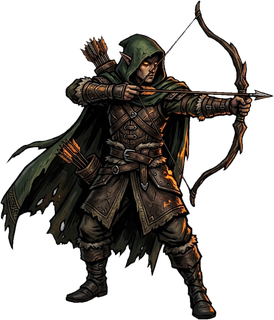
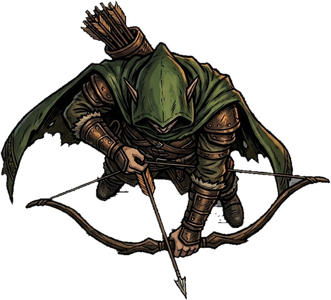
Łucznik w widoku z góry, obraca się w stronę celu
Claude-Session: https://claude.ai/code/session_01RAPEKwVxmvEePtiZ3EAmbz

diff --git a/render.js b/render.js
@@ -627,17 +627,18 @@ function spriteVariant(name, h, k, outline) {
   spriteVariants.set(key, c);
   return c;
 }
-// bohater z obrazka: odbicie w lewo/prawo, kołysanie przy chodzeniu, odrzut przy strzale
+// bohater z obrazka (widok z góry, obrazek patrzy w dół): obrót w stronę celu,
+// kołysanie przy chodzeniu, odrzut przy strzale
 function drawHeroSprite(g, name, x, y, ang, draw, t, walk, hurt) {
-  const H = 74, sp = spriteVariant(name, H, Math.min(SCALE * DPR, 3), 'rgba(255,205,140,.85)');
-  const face = Math.cos(ang) < -0.05 ? -1 : 1;
-  const bob = walk ? Math.abs(Math.sin(walk * 12)) * 3 : Math.sin(t * 2.5) * 0.8;
-  const tilt = walk ? Math.sin(walk * 12) * 0.05 : 0;
+  const H = 74, sp = spriteVariant(name, H, Math.min(SCALE * DPR, 3), 'rgba(255,205,140,.8)');
+  const sway = walk ? Math.sin(walk * 12) * 0.07 : Math.sin(t * 2) * 0.02;
+  const pulse = walk ? 1 + Math.abs(Math.sin(walk * 12)) * 0.04 : 1 + Math.sin(t * 2.5) * 0.012;
   g.save();
-  g.fillStyle = 'rgba(0,0,0,.45)'; g.beginPath(); g.ellipse(x, y + 14, 17, 6, 0, 0, TAU); g.fill();
-  g.translate(x - face * draw * 2.5, y + 16 - bob);
-  g.rotate(tilt); g.scale(face * (1 + draw * 0.03), 1 - draw * 0.03);
+  g.fillStyle = 'rgba(0,0,0,.4)'; g.beginPath(); g.ellipse(x + 3, y + 6, 26, 20, 0, 0, TAU); g.fill();
+  g.translate(x - Math.cos(ang) * draw * 3, y - Math.sin(ang) * draw * 3);
+  g.rotate(ang - Math.PI / 2 + sway);
+  g.scale(pulse, pulse);
   if (hurt > 0) g.globalAlpha = 0.55 + Math.sin(t * 60) * 0.35;
-  g.drawImage(sp, -sp.w / 2, -sp.h + 4, sp.w, sp.h);
+  g.drawImage(sp, -sp.w / 2, -sp.h * 0.42, sp.w, sp.h);
   g.restore();
 }

diff --git a/game.js b/game.js
@@ -1189,7 +1189,7 @@ function render() {
     drawGround(ctx, cam.x, cam.y, W, H);
     ctx.save(); ctx.translate(-cam.x, -cam.y);
     const mspr = 'hero_' + classDef(SAVE.lastClass).id;
-    if (IMG[mspr]) drawHeroSprite(ctx, mspr, 0, 0, Math.sin(t * 0.5) > 0 ? 0 : Math.PI, 0, t, 0, 0);
+    if (IMG[mspr]) drawHeroSprite(ctx, mspr, 0, 0, -Math.PI / 2 + Math.sin(t * 0.7) * 0.6, 0, t, 0, 0);
     else drawHero(ctx, 0, 0, -Math.PI / 2 + Math.sin(t) * 0.5, 0, t, 0, 0, classDef(SAVE.lastClass).look);
     ctx.globalCompositeOperation = 'lighter';
     const f = 0.8 + Math.sin(t * 9) * 0.1;

diff --git a/sw.js b/sw.js
@@ -1,6 +1,6 @@
 // Service worker: gra działa offline po pierwszym uruchomieniu.
 // Przy każdej aktualizacji gry zwiększ numer wersji, żeby telefon pobrał nowe pliki.
-const VERSION = 'hd-v4';
+const VERSION = 'hd-v5';
 const FILES = [
   './', 'index.html', 'style.css', 'data.js', 'meta.js', 'audio.js', 'render.js', 'game.js', 'manifest.json',
   'icons/icon-192.png', 'icons/icon-512.png', 'assets/hero_archer.png',

diff --git a/src_art/cutout.py b/src_art/cutout.py
@@ -1,0 +1,66 @@
+"""Wycina tło (szachownicę lub jednolity kolor) z grafiki AI. Użycie: cutout.py wejście wyjście"""
+import sys
+from PIL import Image, ImageFilter
+import numpy as np
+from collections import deque, Counter
+from scipy import ndimage
+src, dst = sys.argv[1], sys.argv[2]
+im = Image.open(src).convert('RGB'); a = np.asarray(im).astype(int)
+H, W, _ = a.shape
+# odcienie tła z rogów
+corners = np.concatenate([a[:80, :80].reshape(-1, 3), a[:80, -80:].reshape(-1, 3), a[-80:, :80].reshape(-1, 3), a[-80:, -80:].reshape(-1, 3)])
+cnt = Counter(tuple(c // 6 * 6 + 3) for c in corners)
+tones = []
+for c, n in cnt.most_common(8):
+    if n < len(corners) * 0.06: break
+    if all(np.abs(np.array(c) - np.array(t)).max() > 18 for t in tones): tones.append(c)
+tones = [np.array(t) for t in tones[:3]]
+print('tones', [t.tolist() for t in tones])
+d = np.min([np.abs(a - t).max(2) for t in tones], axis=0)
+bgc = d <= 16
+mask = np.zeros((H, W), bool); q = deque()
+for x in range(W):
+    for y in (0, H - 1):
+        if bgc[y, x]: mask[y, x] = True; q.append((y, x))
+for y in range(H):
+    for x in (0, W - 1):
+        if bgc[y, x] and not mask[y, x]: mask[y, x] = True; q.append((y, x))
+while q:
+    y, x = q.popleft()
+    for dy, dx in ((1, 0), (-1, 0), (0, 1), (0, -1)):
+        ny, nx = y + dy, x + dx
+        if 0 <= ny < H and 0 <= nx < W and not mask[ny, nx] and bgc[ny, nx]:
+            mask[ny, nx] = True; q.append((ny, nx))
+# zamknięte kawałki tła (np. wewnątrz łuku)
+lab, n = ndimage.label(bgc & ~mask)
+if n:
+    sizes = ndimage.sum(np.ones_like(lab), lab, range(1, n + 1))
+    for i, sz in enumerate(sizes, 1):
+        if sz < 250: continue
+        comp = lab == i
+        if len(tones) == 1 or sz > 3000: mask |= comp; continue
+        px = a[comp]
+        near = [(np.abs(px - t).max(1) <= 16).mean() for t in tones]
+        if sum(v > 0.12 for v in near) >= 2: mask |= comp
+# szare kwadraciki w nieco innym odcieniu (artefakty JPG), stykające się z tłem
+mx, mn = a.max(2), a.min(2)
+grey = ((mx - mn) <= 10) & (mn >= 55) & (mx <= 170) & ~mask
+lab3, n3 = ndimage.label(grey)
+if n3:
+    touch = ndimage.binary_dilation(mask, iterations=2)
+    sizes3 = ndimage.sum(np.ones_like(lab3), lab3, range(1, n3 + 1))
+    hit = ndimage.maximum(touch, lab3, range(1, n3 + 1))
+    for i, (sz, h) in enumerate(zip(sizes3, hit), 1):
+        if h and sz >= 40: mask |= lab3 == i
+# usuń luźne wysepki (resztki szachownicy), zostaw postać
+lab2, n2 = ndimage.label(~mask)
+if n2 > 1:
+    sizes2 = ndimage.sum(np.ones_like(lab2), lab2, range(1, n2 + 1))
+    big = sizes2.max()
+    for i, sz in enumerate(sizes2, 1):
+        if sz < big * 0.04: mask |= lab2 == i
+print('removed', round(mask.mean(), 3))
+alpha = np.where(mask, 0, 255).astype(np.uint8)
+al = Image.fromarray(alpha).filter(ImageFilter.MinFilter(3)).filter(ImageFilter.GaussianBlur(0.7))
+out = im.convert('RGBA'); out.putalpha(al)
+out = out.crop(out.getbbox()); out.save(dst); print('size', out.size)
